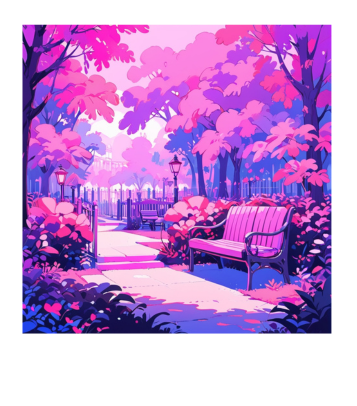
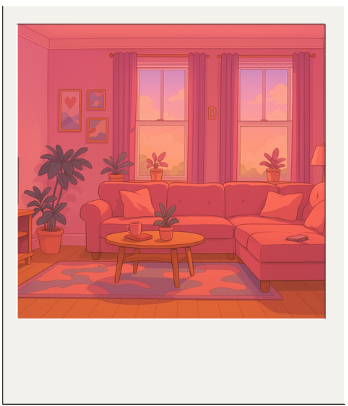
[fix] Chapters

diff --git a/core/src/main/java/com/us/TFG/MyTfgGame.java b/core/src/main/java/com/us/TFG/MyTfgGame.java
@@ -22,8 +22,8 @@ public class MyTfgGame extends Game {
         // Inicializar DatabaseManager solo una vez
         databaseManager = new DatabaseManager();
 
-        //this.setScreen(new LogoScreen());
-        this.setScreen(new PlayerMenuScreen("Player1"));
+        this.setScreen(new LogoScreen());
+        //this.setScreen(new PlayerMenuScreen("Player1"));
         //this.setScreen(new AdminMenuScreen("Admin1"));
     }
 

diff --git a/core/src/main/java/com/us/TFG/screens/Player/Game/ChapterCatalogScreen.java b/core/src/main/java/com/us/TFG/screens/Player/Game/ChapterCatalogScreen.java
@@ -32,7 +32,7 @@ public class ChapterCatalogScreen implements Screen {
     private int gameId;
     private int currentPage = 0;
     private static final int CHAPTERS_PER_PAGE = 5;
-    private static final int MAX_UNLOCKED_CHAPTERS = 10;
+    private static final int MAX_UNLOCKED_CHAPTERS = 9;
     private List<Chapter> chapters;
 
     private ImageButton flechaDButton;
